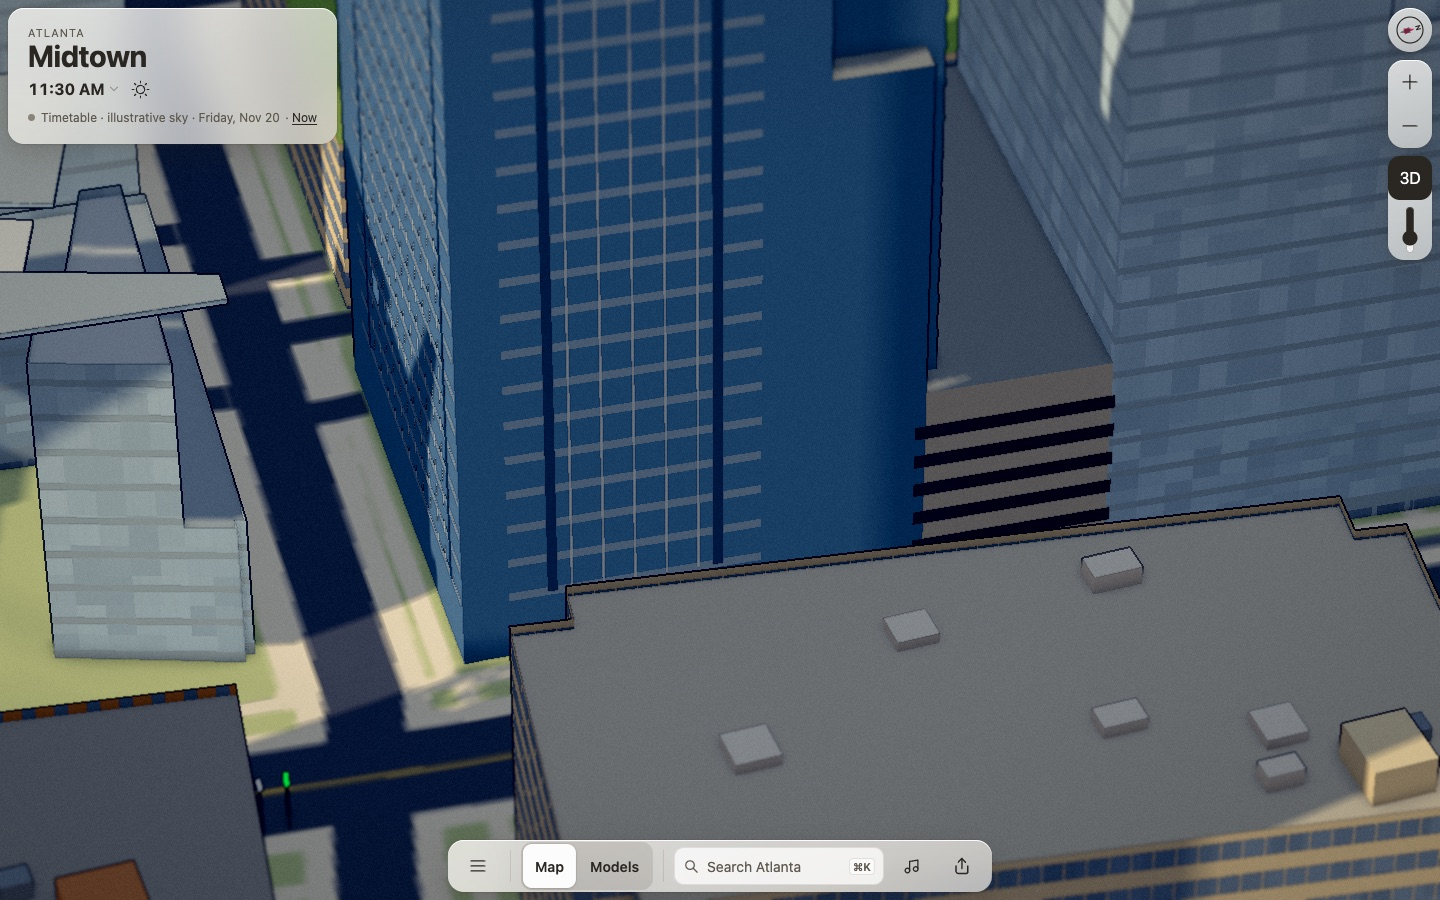
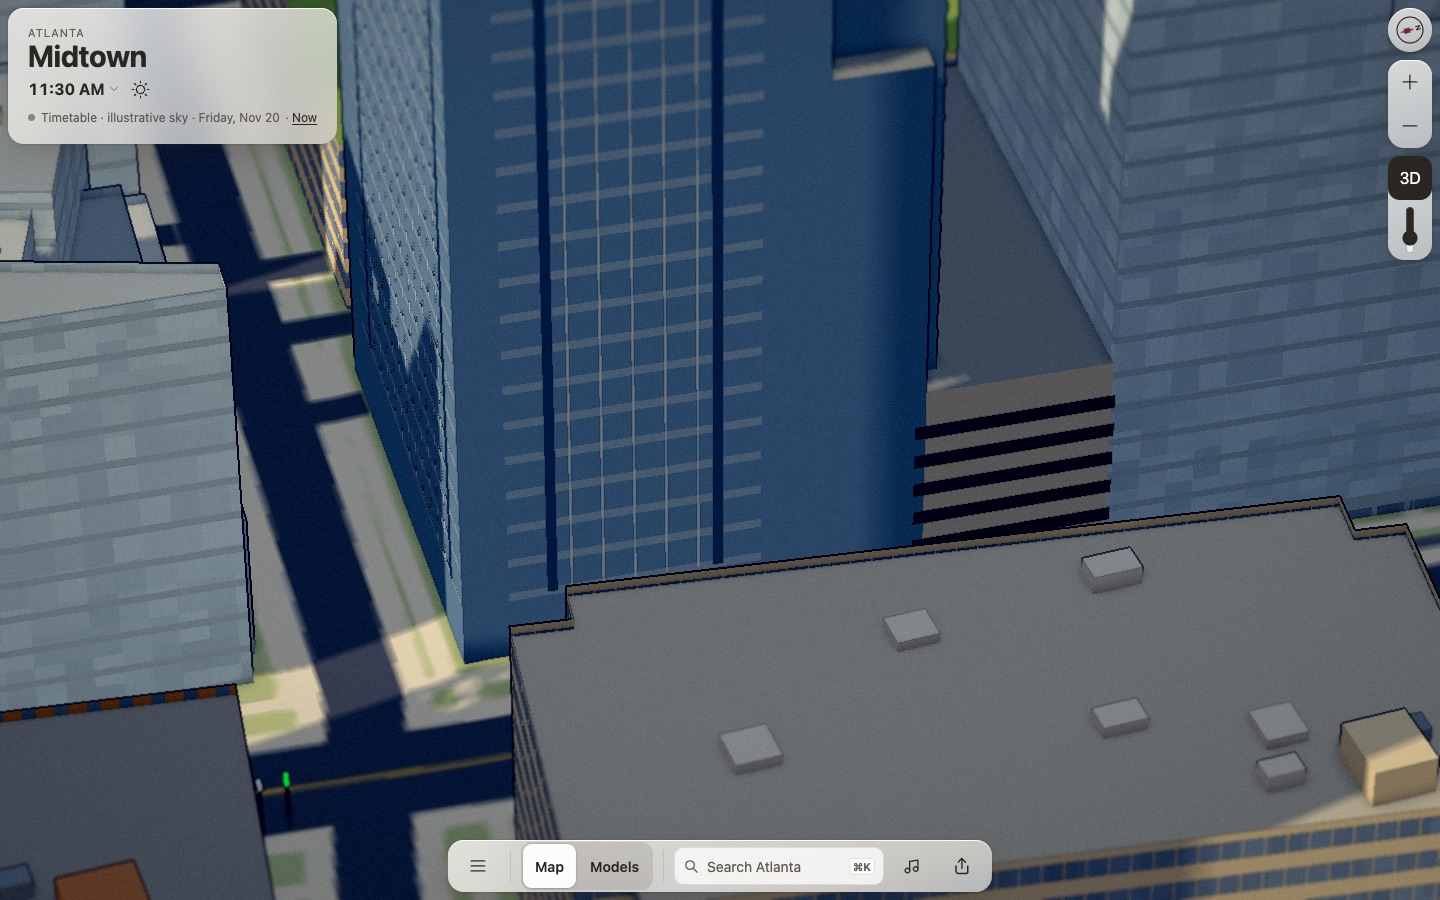
Bring 712 West Peachtree's glass under the rendered saturation cap
Shaft #7289a1 (S28 V63) and deck transition #646d75 (S15 V46); sunlit
glass now renders S33 V56 at 11:30.

Changed region(s): [[0.0, 0.1556, 0.3125, 0.8089], [0.25, 0.2178, 0.2812, 0.28]]

diff --git a/web/src/city/712-west-peachtree.ts b/web/src/city/712-west-peachtree.ts
@@ -29,8 +29,8 @@ export function create712WestPeachtree(buildings: VBuilding[], site: VBuilding, 
   const datum = site.floorY === undefined ? s.base + 0.35 : site.floorY + grid.manifest.vertical.sceneZeroNavd88M;
   const roof = datum + tower.h, garageTop = datum + podium.h, seed = seedOf(westPeachtree712Id);
   // Glass value sits with the neighbouring curtain walls; spandrels and fins carry the rhythm.
-  const blue = '#66819c', spandrel = '#8a9bad', fin = '#aab6c2', pale = '#97adc2', reveal = '#3d5168',
-    transition = '#4a5d70', cap = '#c9ccd0', concrete = '#c3bfb6', slot = '#3b4148', roofGrey = '#8f918f';
+  const blue = '#7289a1', spandrel = '#8a9bad', fin = '#aab6c2', pale = '#97adc2', reveal = '#3d5168',
+    transition = '#646d75', cap = '#c9ccd0', concrete = '#c3bfb6', slot = '#3b4148', roofGrey = '#8f918f';
   const FLOOR = 3.83;
   const top = roof - 7.7;
 

diff --git a/docs/log/ui/712-west-peachtree/README.md b/docs/log/ui/712-west-peachtree/README.md
@@ -10,7 +10,7 @@ The tower postdates the 2018 USGS lidar this repo samples, so City keeps the map
 
 The first version was mostly flat navy. The coordinator's review called it a recoloured block, so the shaft now carries the curtain-wall rhythm in geometry:
 
-- **Glass value:** a mid blue-grey (`#66819c`) in plain vertex colour (no library surface, so the body batches), close to its neighbours' value so it doesn't read as a dark hole.
+- **Glass value:** a mid blue-grey (`#7289a1`) in plain vertex colour (no library surface, so the body batches), close to its neighbours' value so it doesn't read as a dark hole.
 - **Spandrels (estimated):** a 0.9 m grey-blue band at every 3.83 m floor line. The two crown floors use a pale cap colour.
 - **Mullion fins (estimated):** a 0.24 m pale fin every 3 m.
 - **Corner reveals (estimated):** a 0.9 m dark reveal 4 m in from each end of every mapped edge 16 m or longer, between the first spandrel and the cap.
@@ -33,4 +33,14 @@ Use `/?view=city&cam=<camera>&t=2026-11-20T<time>-05:00`, clear weather.
 | Spec starting camera | `357,-2258,32,60,380` | [Day](start-day.jpg) | [Night](start-night.jpg) |
 | Close: the day camera with a 2.4× lens (`&dev`, then `__setView(-75,52,520,357,-2258,2.4)`) | `357,-2258,-75,52,520` | [Close](close.jpg) | |
 
-Glass bases (provisional rules: V ≥ 40%, S ≤ 36%): shaft `#66819c` (S 35%, V 61%), crown floors `#97adc2` (S 22%, V 76%), deck-level transition `#4a5d70` (S 34%, V 44%).
+Glass bases, under the base-value table in docs/glass-palette.md: shaft `#7289a1` (S 28%, V 63%), crown floors `#97adc2` (S 22%, V 76%), deck-level transition `#646d75` (S 15%, V 46%).
+
+Rendered sample at 11:30, clear, from camera `357,-2258,10,55,480` ([frame](glass-sample.jpg)), median of each face:
+
+| Face | S | V |
+|---|---|---|
+| 712 south face, sunlit | 33 | 56 |
+| 712 west face, shaded | 91 | 29 |
+| Generic slab south face, sunlit (left) | 6 | 78 |
+| Generic slab west face, shaded (left, thin) | 84 | 21 |
+| Generic tower, shaded (right) | 36 | 40 |
